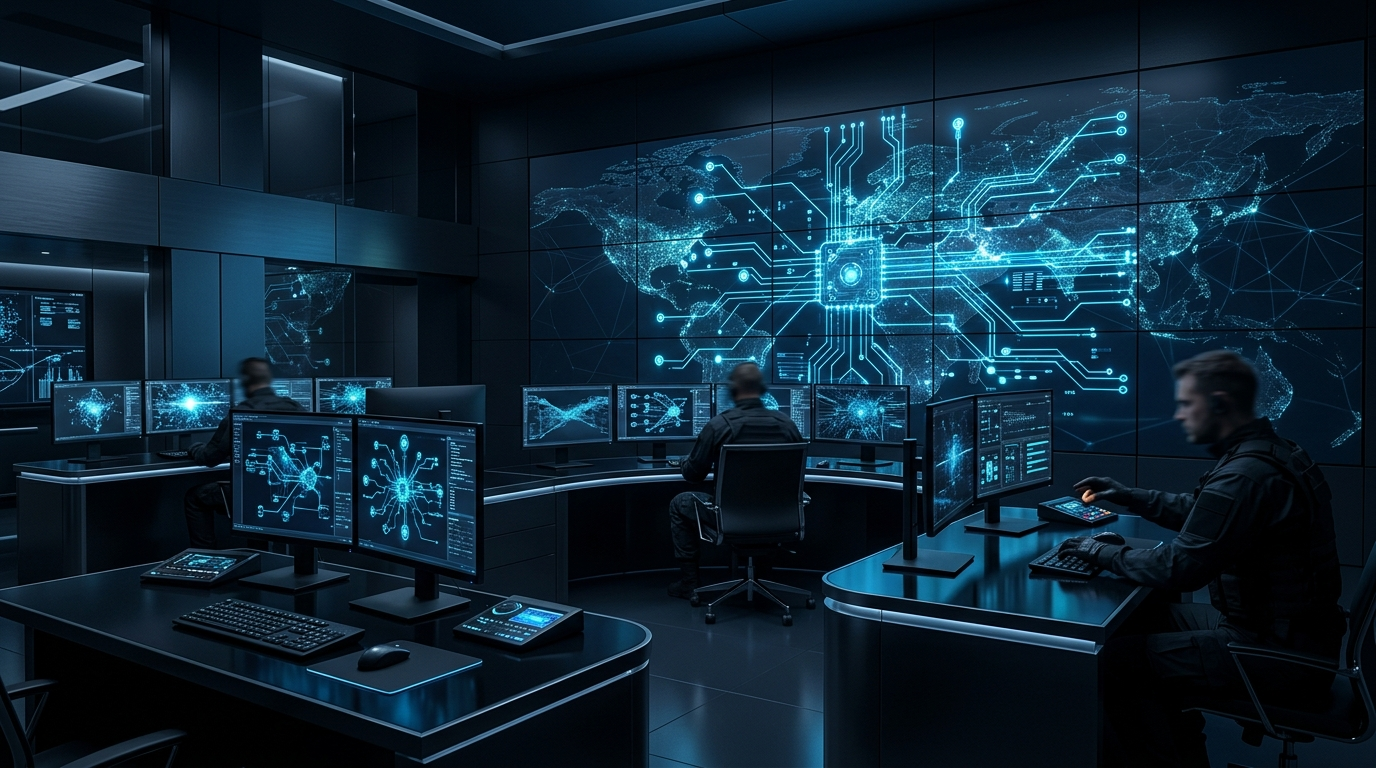
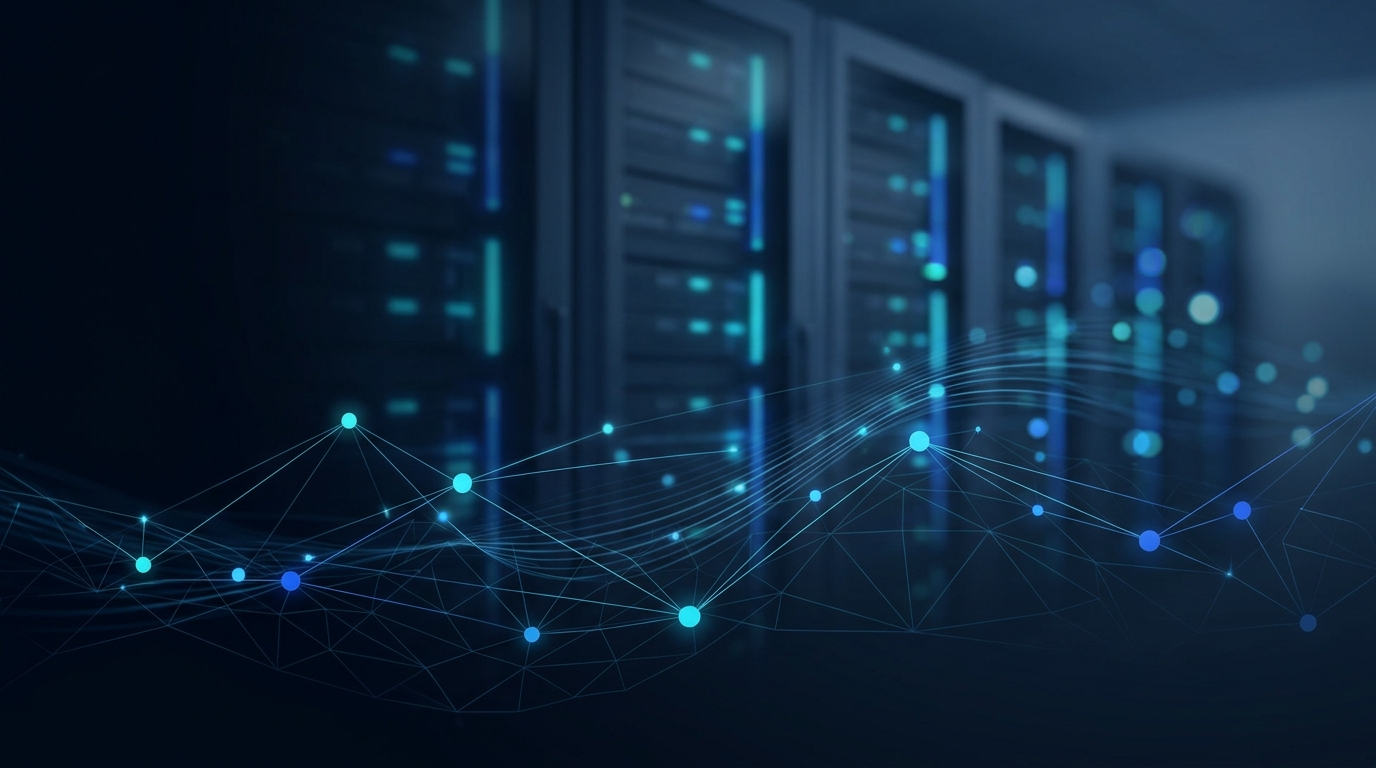
feat(assets): replace hero background with clean professional cybersecurity imagery
- Generate and deploy high-resolution modern cybersecurity background (cybernexa-hero-bg.jpg)
- Features subtle network mesh nodes, fiber optic bokeh, and deep enterprise navy/slate tones
- Fine-tune gradient overlays in home.css and auth.css for optimal clarity and text contrast
- Sync auth-bg.jpg with new high-res asset
- Verified 330 topic pages and repo-wide test suite (0 broken links, 0 asset errors)

diff --git a/css/home.css b/css/home.css
@@ -9,12 +9,12 @@
     overflow: hidden;
     background-color: #060a14;
     background-image: 
-        radial-gradient(ellipse 70% 60% at 75% 30%, rgba(14, 165, 233, 0.22) 0%, transparent 65%),
-        radial-gradient(ellipse 60% 60% at 20% 20%, rgba(37, 99, 235, 0.24) 0%, transparent 60%),
-        linear-gradient(180deg, rgba(6, 10, 20, 0.72) 0%, rgba(9, 14, 25, 0.84) 55%, rgba(6, 10, 20, 0.98) 100%),
+        radial-gradient(ellipse 70% 60% at 75% 30%, rgba(14, 165, 233, 0.18) 0%, transparent 65%),
+        radial-gradient(ellipse 60% 60% at 20% 20%, rgba(37, 99, 235, 0.20) 0%, transparent 60%),
+        linear-gradient(180deg, rgba(6, 10, 20, 0.65) 0%, rgba(9, 14, 25, 0.78) 55%, rgba(6, 10, 20, 0.95) 100%),
         url('../images/cybernexa-hero-bg.jpg');
     background-size: cover;
-    background-position: center right;
+    background-position: center center;
     background-repeat: no-repeat;
     border-bottom: 1px solid rgba(255, 255, 255, 0.08);
     padding: 85px 0 95px;
